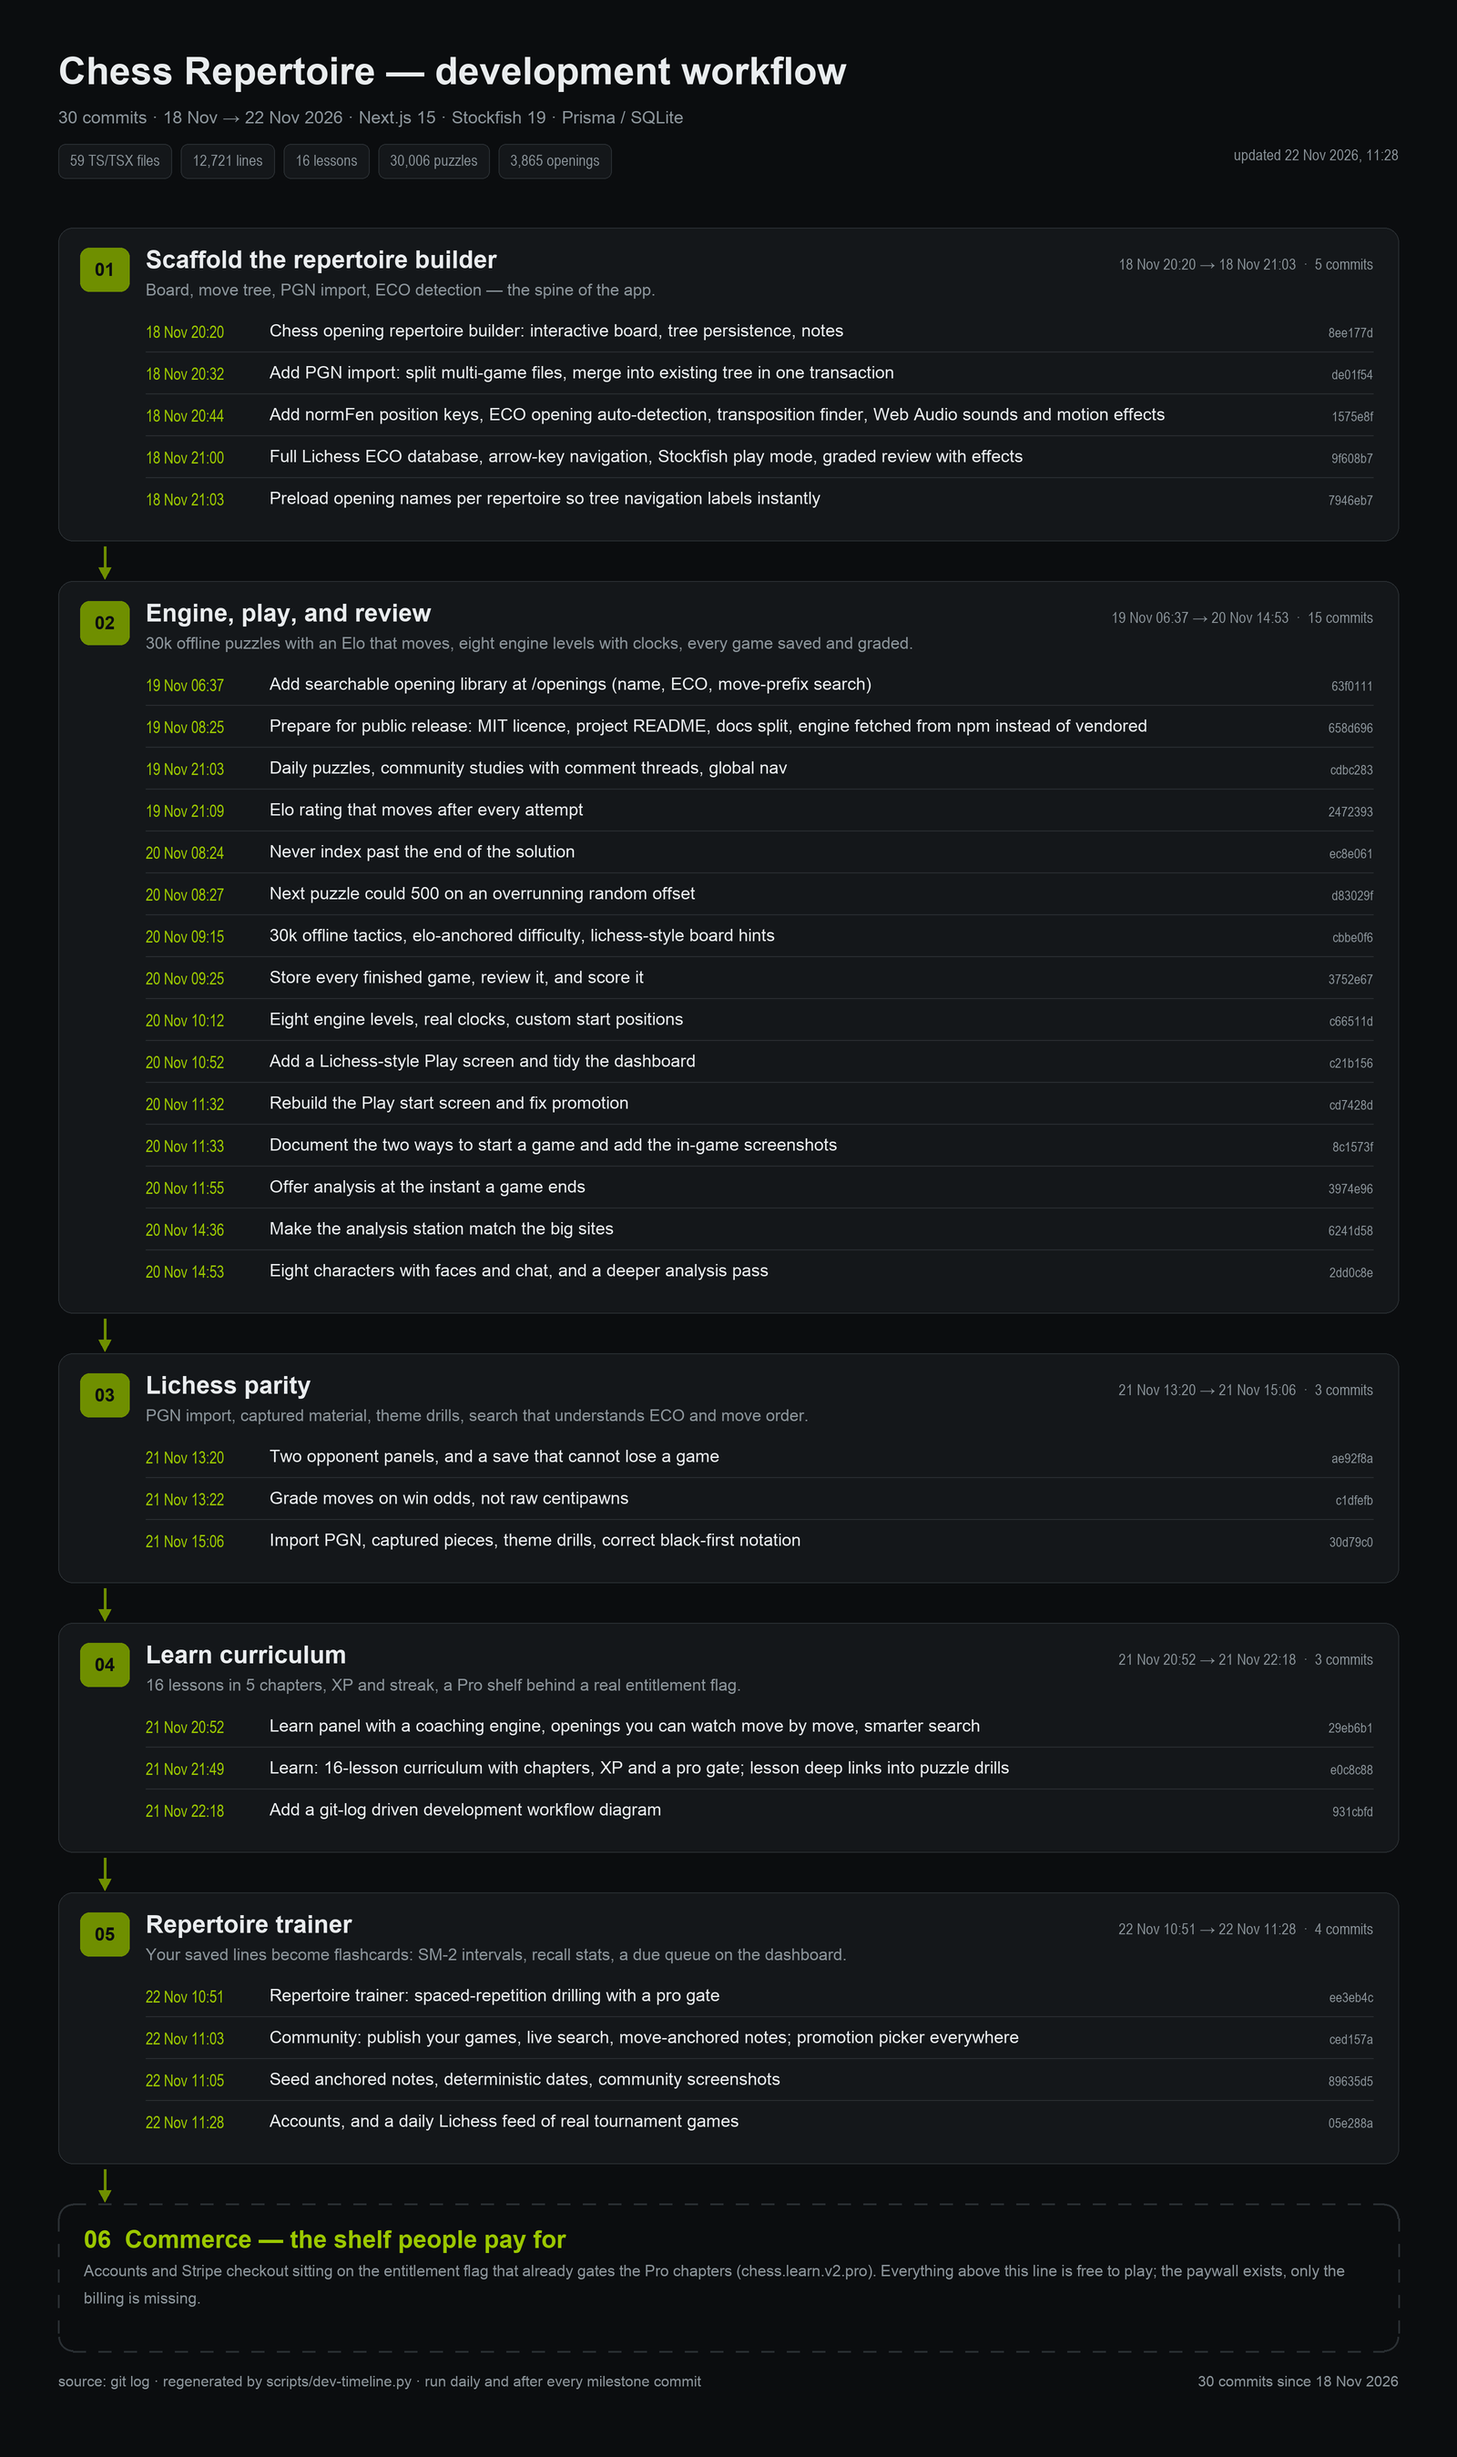
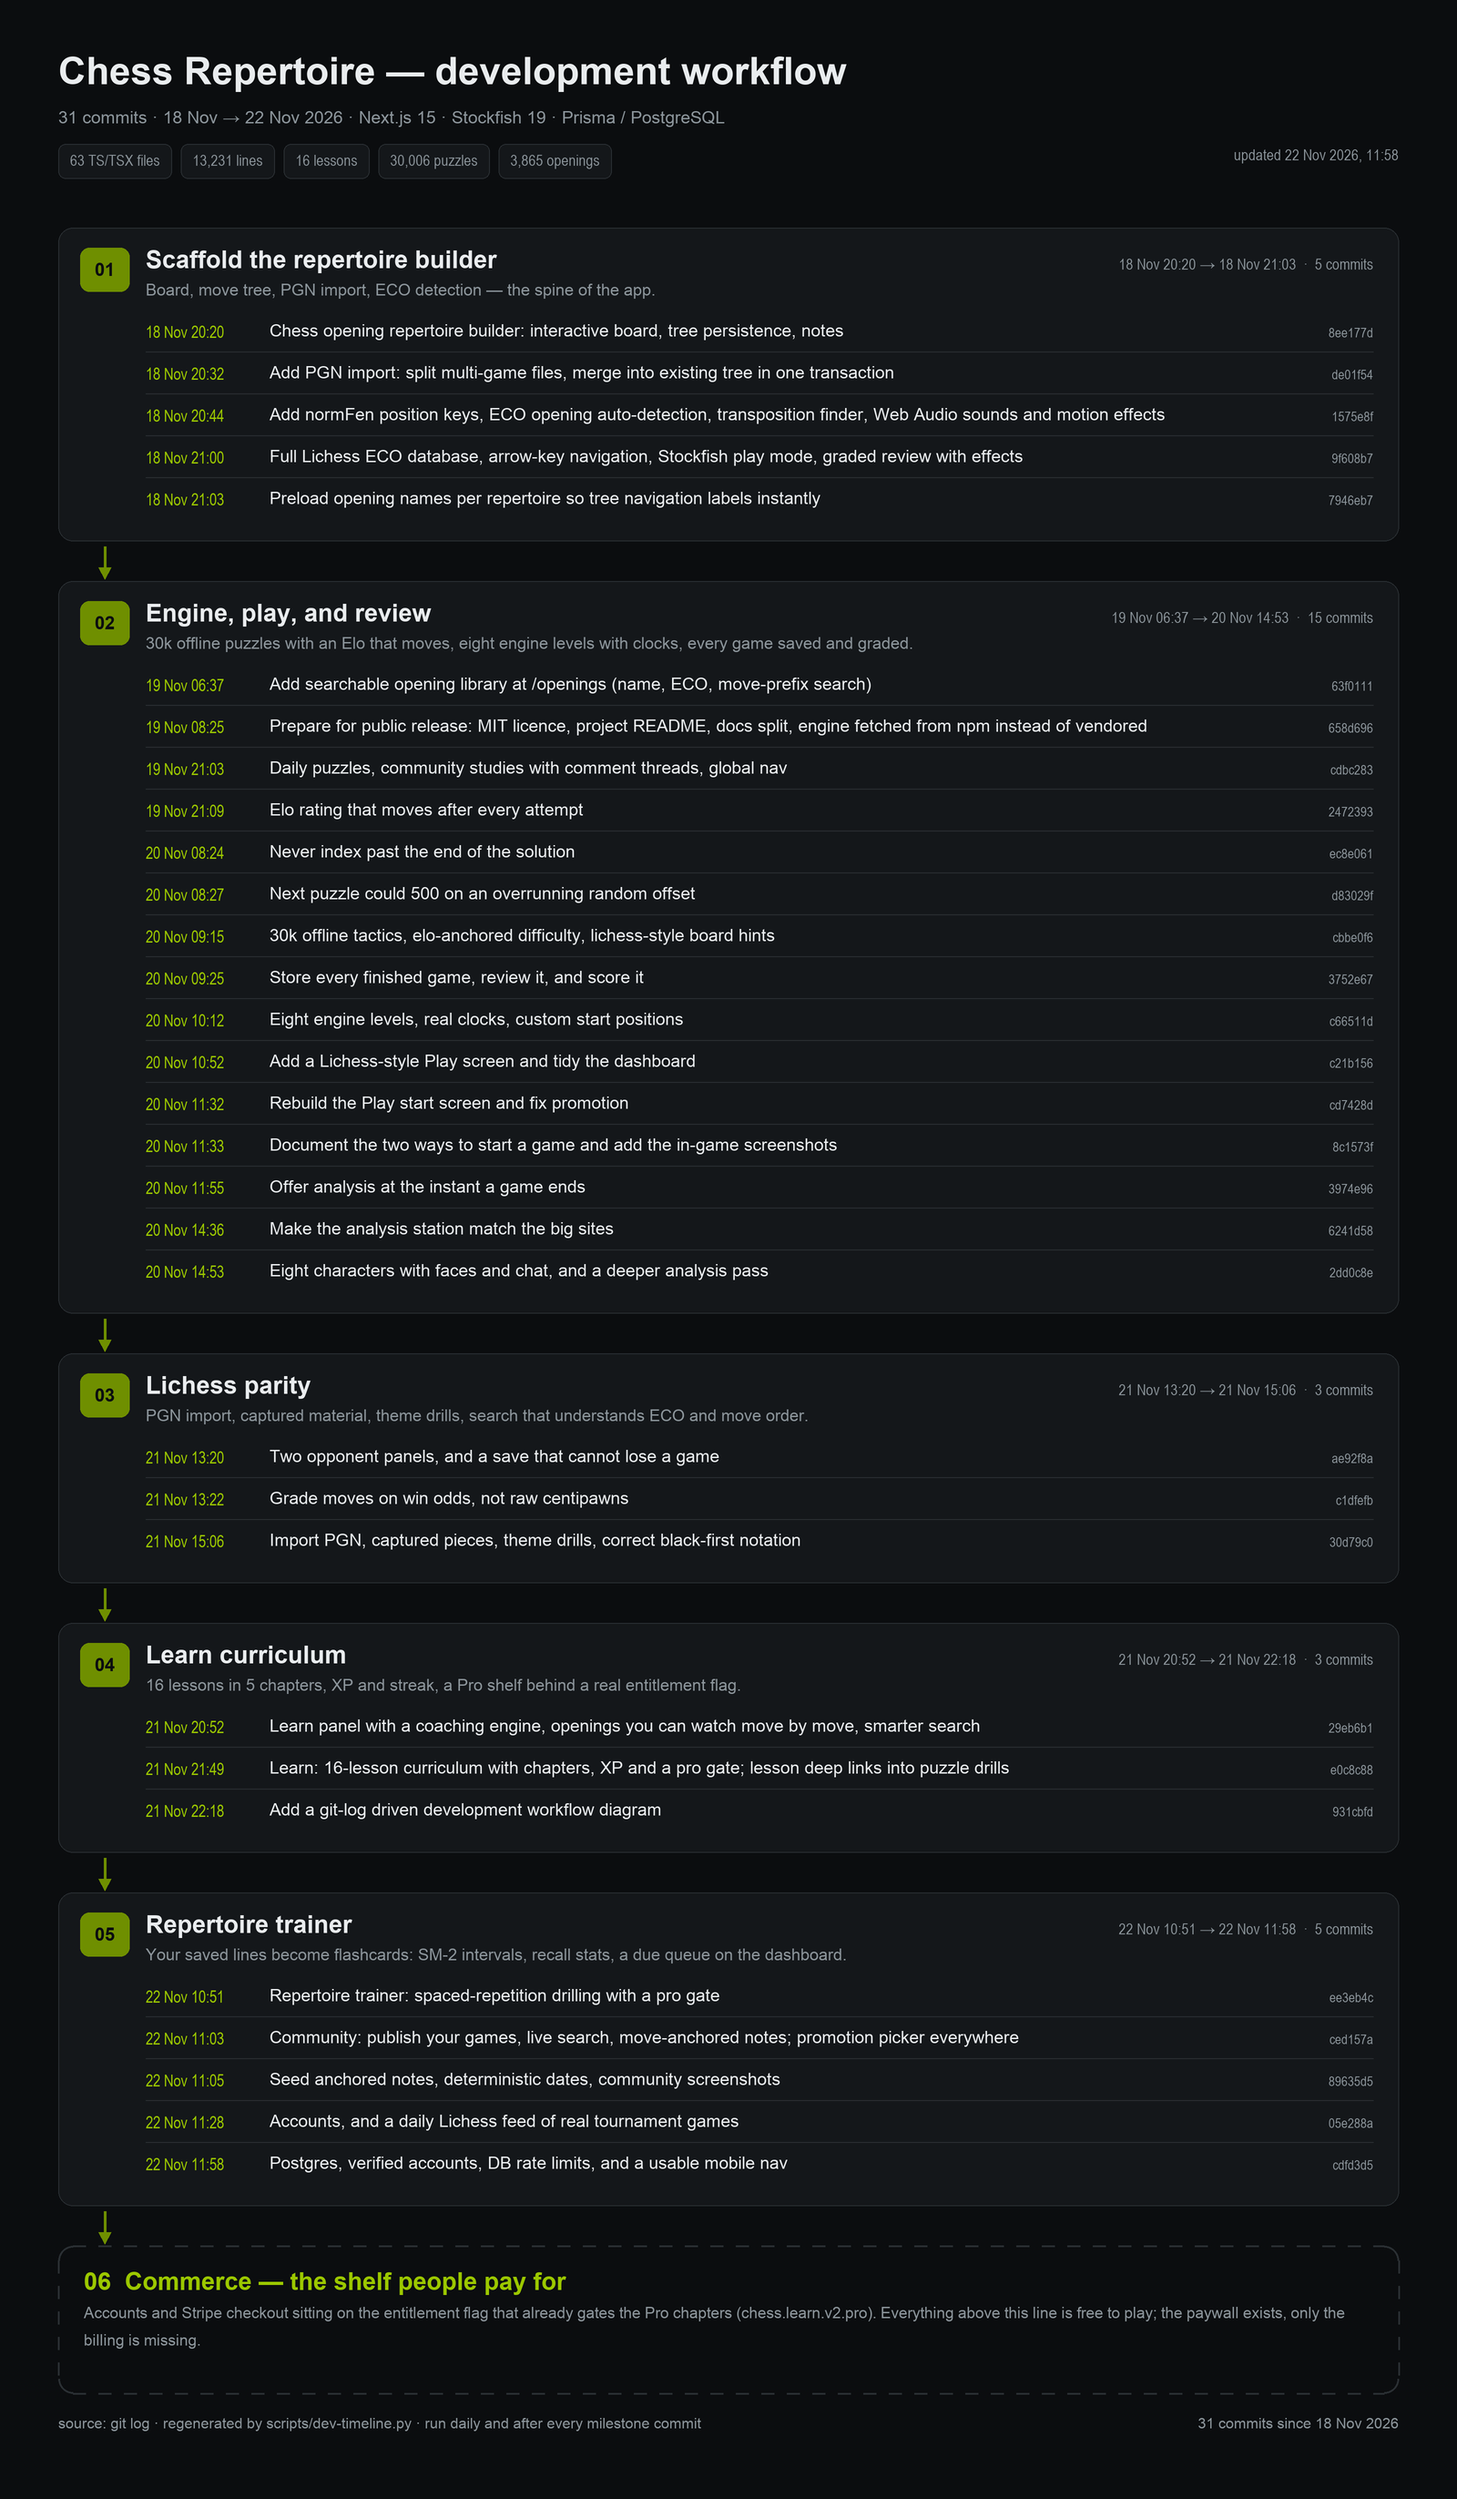
docs: update development timeline

diff --git a/scripts/dev-timeline.py b/scripts/dev-timeline.py
@@ -204,7 +204,7 @@ def main() -> None:
 
     # ---- header -------------------------------------------------------------
     d.text((MARGIN, 54 * S), "Chess Repertoire — development workflow", font=F_TITLE, fill=COL["text"])
-    span = f"{len(items)} commits · {blocks[0][3]:%d %b} → {items[0]['when']:%d %b %Y} · Next.js 15 · Stockfish 19 · Prisma / SQLite"
+    span = f"{len(items)} commits · {blocks[0][3]:%d %b} → {items[0]['when']:%d %b %Y} · Next.js 15 · Stockfish 19 · Prisma / PostgreSQL"
     d.text((MARGIN, 118 * S), span, font=F_SUB, fill=COL["muted"])
 
     chips = [
